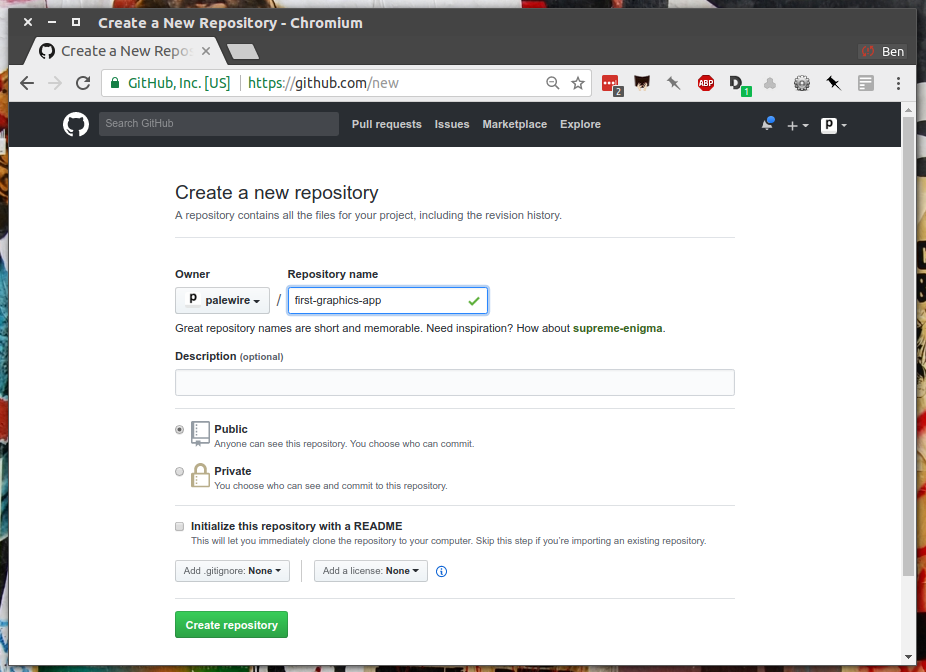
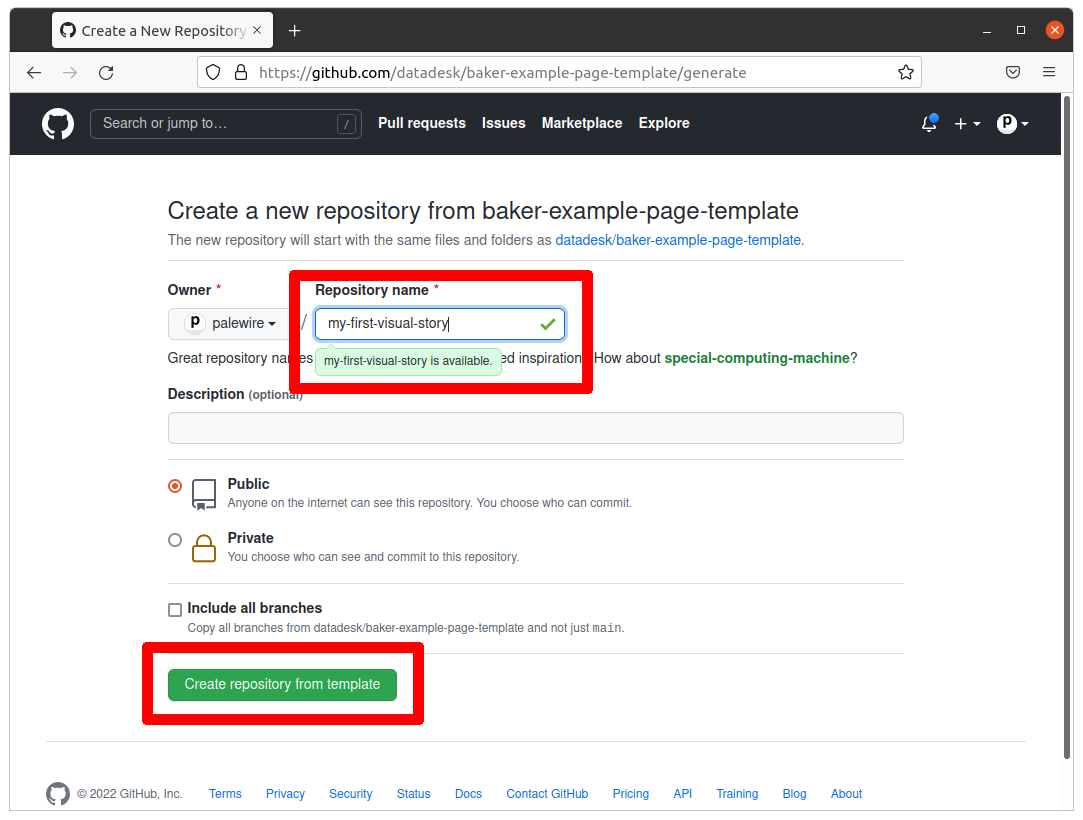
Rewrote chapter 3

Changed region(s): [[0.0, 0.0, 1.0, 1.0], [0.7862, 0.5312, 0.8164, 0.5625]]

diff --git a/tutorial/github.md b/tutorial/github.md
@@ -10,7 +10,7 @@ First things first. It always helps to store all your code in the same place, in
   :local:
 ```
 
-## Create a repository
+## Create a code directory
 
 Once you have your terminal open, it will start you off in your computer’s home directory, much like your file explorer.
 
@@ -42,87 +42,50 @@ Now jump into the new directory with the [`cd`](https://en.wikipedia.org/wiki/Cd
 cd Code
 ```
 
-Then, create a new directory where we can store the code for the project we're going to build today. Name it after our application.
+## Create a repository
+
+Visit [GitHub](http://www.github.com) and find the homepage for `baker-example-page-template` repository published the Los Angeles Times’s `datadesk` account. It can be found at [github.com/datadesk/baker-example-page-template](https://github.com/datadesk/baker-example-page-template).
+
+[![new repo button](_static/template-page.png)](https://github.com/datadesk/baker-example-page-template)
+
+This is a special kind of repository known as a template. It’s designed to serve as a starting point for new projects.  Click the [green "use this template" button](https://github.com/datadesk/baker-example-page-template/generate) near the middle of the page to get started.
+
+[![click it](_static/template-button.png)](https://github.com/datadesk/baker-example-page-template/generate)
+
+On the next page, fill in a name for your copy of the repository. You can pick anything. Our example will use `my-first-visual-story`.
+
+![new repo](_static/new-repo.png)
+
+## Clone the repository
+
+Return to your terminal. Use `gh` to login to GitHub, which will verify that your computer has permission to access and edit the repositories owned by your account.
 
 ```bash
-mkdir first-visual-story
+gh auth login
 ```
 
-Now, use `cd` again to enter the the directory you just created.
+After you authenticate, it’s time to clone the new repository we created. Edit the code below by inserting your user name and repository. Then run it.
 
 ```bash
-cd first-graphics-app
+gh clone <your-username>/<your-repo>
 ```
 
-Use the command [`git init`](https://git-scm.com/docs/git-init) to create a new repository in the current directory. This will be the root of our version-controlled project.
+In my case, the command looks like this:
 
 ```bash
-git init .
+gh repo clone palewire/my-first-visual-story
 ```
 
-```{note}
-The `.` symbol is a common shortcut to refer to the current directory from the terminal
-```
-
-## Connect to GitHub
-
-Visit [GitHub](http://www.github.com) and [create](https://github.com/new) a new public repository named `first-visual-story`. Don't check "Initialize with README." You'll want to start with a blank repository.
-
-```{image} _static/new-repo.png
-:target: https://github.com/new
-:width: 100%
-```
-
-Then connect your local directory to GitHub with the following command. Replace `<yourusername>` with your GitHub user name.
+After clone completes, run the `ls` command again. You should see a new folder created by `gh`.
 
 ```bash
-$ git remote add origin https://github.com/<yourusername>/first-graphics-app.git
+ls
 ```
 
-Create your first file, a blank `README` with a [Markdown](https://en.wikipedia.org/wiki/Markdown) file extension since that's [the preferred format of GitHub](https://help.github.com/articles/github-flavored-markdown). The filename will be `README.md`. Markdown is a simple way of writing nicely formatted text, complete with headlines, links and images.
+Use `cd` to move into the directory, where we can begin work.
 
 ```bash
-# Macs or Linux:
-$ touch README.md
-
-# If you're using Visual Studio Code, fire it up in your text editor right away:
-$ code README.md
+cd my-first-visual-scraper
 ```
 
-Open up the README in your text editor and type something in it. Maybe something like:
-
-```
-My first graphics app
-=====================
-```
-
-Make sure to save it. Then officially add the file to your repository for tracking with Git's `add` command.
-
-```bash
-$ git add README.md
-```
-
-Log its creation with Git's `commit` command. You can include a personalized message after the `-m` flag. If you're on a Windows machine, make sure you use double quotes around your commit message.
-
-```bash
-$ git commit -m "First commit"
-```
-
-If this is your first time using Git, you may be prompted to configure you name and email. If so, take the time now. Then run the `commit` command above again.
-
-```bash
-$ git config --global user.email "your@email.com"
-$ git config --global user.name "your name"
-```
-
-Now, finally, push your commit up to GitHub.
-
-```bash
-$ git push origin master
-```
-
-You just created your first code commit! Reload your repository on GitHub and see your handiwork.
-
-```{image} _static/first-commit.png
-:width: 100%
-```
+We've got our starter kit installed. Let’s get it up and running.

diff --git a/tutorial/framework.md b/tutorial/framework.md
@@ -5,6 +5,11 @@
 
 Now that we have our Git repository created, we're going to start installing the tools we need to do our job.
 
+```{contents} Sections
+  :depth: 1
+  :local:
+```
+
 The first and more important is a [framework](https://en.wikipedia.org/wiki/Software_framework). What's that? Nothing more than fancy name for a set of software tools that, working together, can stand up a website. Believe it or not, it takes dozens of different things to pull a good site together. Frameworks aim to make the challenge easier by organizing a curated set of tools into a system that saves programmers time.
 
 There are a lot of different frameworks out there. Maybe you've heard of some them, like [Django](https://www.djangoproject.com/) for Python or [Rails](http://rubyonrails.org) for Ruby.
@@ -84,23 +89,41 @@ You'll notice that the all of the sub folders in the `src/` directory of your pr
 Instead, Gulp processes the contents of these folders when it builds the project and serves the files from a `tmp/` folder, where you'll see unprefixed `images/`, `scripts/` and `styles/` directories.
 :::
 
-Open a second terminal (this way you can keep your server running) and navigate to your code folder.
+## Push to GitHub
+
+The next step is to instruct `git` to track the new files with the [`add`](https://git-scm.com/docs/git-add) command.
 
 ```bash
-$ cd Code
-$ cd first-graphics-app
+git add README.md
 ```
 
-Commit our work.
+```{note}
+Rather than introduce files one by one, you can add more than one file by using a [wildcard character](https://en.wikipedia.org/wiki/Wildcard_character) in your command. One common shortcut is `git add .`, which will add all of the files in your repository at once.
+```
+
+Logging changes also requires using the [`commit`](https://git-scm.com/docs/git-commit) command, which expects a summary of your work after the `-m` flag.
 
 ```bash
-$ git add .
-# ☝ A fun trick to add *all* of the pages you've changed with one command. ☝
-$ git commit -m "Installed framework"
+git commit -m "First commit"
 ```
 
-Push it to GitHub.
+````{warning}
+If this is your first time using Git, you may be prompted to configure you name and email. If so, take the time now. 
 
 ```bash
-$ git push origin master
+git config --global user.email "your@email.com"
+git config --global user.name "your name"
 ```
+
+Then run the `commit` command above again.
+````
+
+The final step is to syncronize the changes we’ve made on our computer with the copy of the repository hosted on github.com. This is done via the [`push`](https://git-scm.com/docs/git-push) tool. This complicated `git` command requires two inputs.
+
+First, the command asks for the name of the remote repository where you’d like to send your changes. In the parlance of `git`, the default name is `origin`.
+
+Second, you need to provide the [branch](https://en.wikipedia.org/wiki/Branching_(version_control)) of the code you’d like to syncronize. Branching is a tool for maintaining parallel versions of your code within the same respository. We won't get that sophisticated in this tutorial, so you can stick to the default code branch, which is called `main`.
+
+Taking all that into account, the command to push local changes to GitHub is typically the following. Try it. 
+
+You just created your first code commit! Reload your repository on GitHub and see your handiwork.
